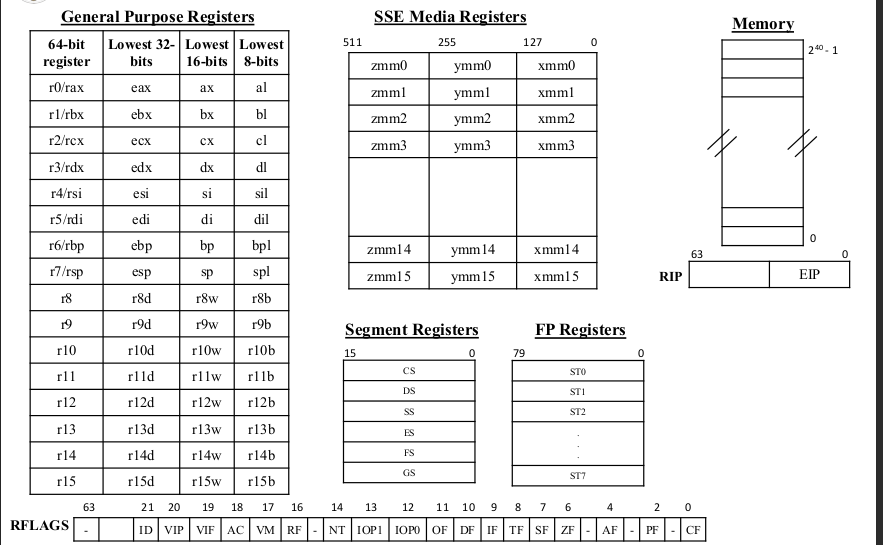
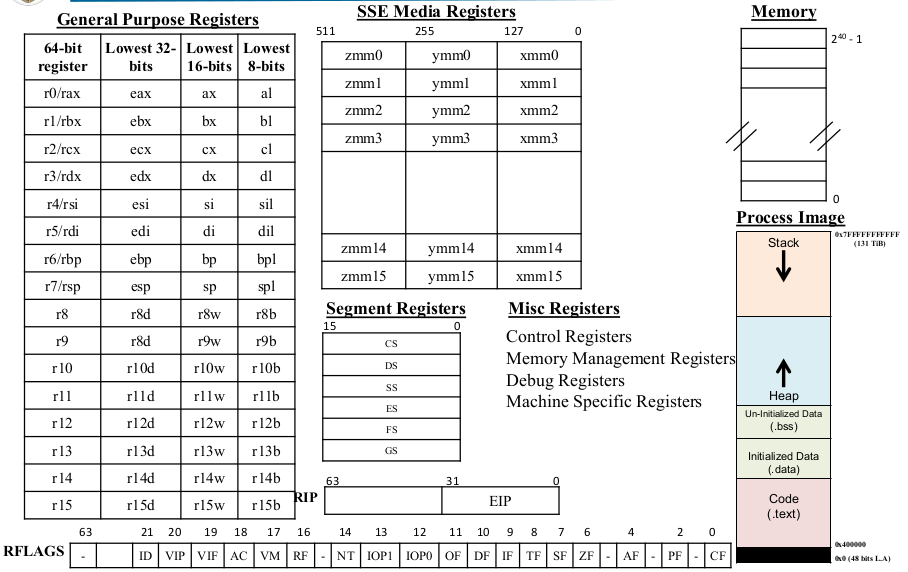
Added datatypes

Changed region(s): [[0.0, 0.0, 1.0, 1.0]]

diff --git a/README.md b/README.md
@@ -1,2 +1,156 @@
-# learnasm
-This is repo contains all assembly language codes written and analyzed while learning  assembly language
+
+# intel x86_64 assembly 
+
+is an unstructured programming language meaning it provides only extreme basic programming control structures.
+
+- Basic Expression.  
+- R/W over memory.
+- Jump Operators.
+
+#### Tells us 
+- How hardware works 
+- Optimize program speed and size.
+  - For example, use **mov al, 5** instead of **mov eax, 5** if only the lower 8 bits of eax are needed.
+- Writing device drivers, OS kernals, Compilers and embedded systems.
+- Reverse Engineering.
+  
+#### In assembly 
+
+- No procedure calls **->** argument processing is done manually.
+- No loops **->** need to jump instead.
+- No variable/functions scope **->** everything is global.
+  
+<br>
+
+### Resources
+---
+
+- **Playlist ::** [Arif Butt](https://www.youtube.com/watch?v=fYHAnSoCgbk&list=PL7B2bn3G_wfCC2HDSXtMFsskasZ5fdLXz&pp=iAQB)
+- **Github ::** [Arif Butt](https://github.com/arifpucit/COAL_VLecs)
+
+
+<br>
+
+### Compiler
+---
+
+- **NASM**
+- nasm -fefl64 filename.nasm
+- ld filename.o -o filename
+- ./filename
+
+<br>  
+
+## Registers
+---
+
+#### General-Purpose Registers (x86)
+
+- EAX (Accumulator): Used for arithmetic and logic operations. It is also the primary register for function return values.
+- EBX (Base): Used as a base pointer for memory access and can be used for other general purposes.
+- ECX (Counter): Often used as a loop counter or for other specialized counting tasks.
+- EDX (Data): Used for arithmetic and logic operations. It is also used to hold the high 32-bits of 64-bit results.
+- ESI (Source Index): Used for source data in string and memory operations.
+- EDI (Destination Index): Used for destination data in string and memory operations.
+- ESP (Stack Pointer): Points to the top of the stack, used for managing the call stack.
+- EBP (Base Pointer): Points to the base of the current stack frame, used for accessing function parameters and local variables.
+  
+#### 64-bit Extension of General-Purpose Registers (x86_64)
+
+- RAX, RBX, RCX, RDX, RSI, RDI: The 64-bit counterparts of their 32-bit equivalents.
+- R8 - R15: Additional general-purpose registers available in x86_64 mode, providing more options for data manipulation.
+  
+#### Segment Registers (x86)
+
+- CS (Code Segment): Holds the code segment address.
+- DS (Data Segment): Holds the data segment address.
+- SS (Stack Segment): Holds the stack segment address.
+- ES (Extra Segment): Holds an extra data segment address.
+- FS, GS: Additional segment registers available for specific purposes in some CPU architectures.
+  
+#### Flags Register (EFLAGS/RFLAGS)
+
+- Register used for status & CPU control information out of 64 bits mostly unsed and reserved for future use.
+- Status Flags
+  - MSB 
+  - Overflow
+  - Logic
+- Control Flags
+  - String Operations
+  - Direction
+- System Flags
+  - Interrupts
+  - Debugging
+- Contains various status and control flags, such as carry(CF), zero(ZF), sign(SF), overflow(OF), etc. The flags register is updated automatically by certain instructions.
+
+#### Instruction Pointer (EIP/RIP):
+
+- Points to the next instruction to be executed in the program.
+
+#### SSE Media Regisers
+
+- (XMM0 to XMM7) These are 128-bit registers, each capable of holding 16 bytes or 4 single-precision floating-point numbers or 2 double-precision floating-point numbers or 16 packed 8-bit integers or 8 packed 16-bit integers.
+- XMM8 to XMM15 (Available in x86_64 mode)Additional 128-bit registers that are available only in x86_64 mode, providing more media registers for SIMD operations.
+
+![Registers](/img/registerSet.png)
+
+<br>
+
+## Mnemonics
+---
+
+#### x86_64 Assembly Instructions
+
+- mov, add, sub, syscall etc.
+
+#### Pseudo Instructions
+
+- DB, DW, RESB, RESW, EQU
+
+#### Assembler Directives
+
+- SECTION, EXTERN, GLOBAL, BITS
+
+<br>
+
+### SECTION .data
+---
+
+The data section is used to define static data variables that the program uses during its execution. It includes constants, initialized variables, and arrays.
+
+```
+SECTION .data
+    myvar db 42   ; Define a byte (8-bit) variable with value 42.
+    myarr dw 10, 20, 30, 40  ; Define a word (16-bit) array with values.
+```
+
+<br>
+
+### SECTION .bss
+---
+
+The BSS (Block Started by Symbol) section is used to define uninitialized data variables. These variables are allocated memory, but their initial values are not specified. The BSS section is typically used for variables that will be initialized at runtime or dynamically during program execution.
+
+```
+SECTION .bss
+    buffer resb 100   ; Reserve 100 bytes of memory for the buffer variable.
+```
+
+<br>
+
+### SECTION .text
+---
+
+The code section is where the actual executable instructions of the program are placed. It contains the assembly code that performs various operations and calculations. This section typically starts with a label, followed by the code instructions.
+
+```
+SECTION .text
+    global _start   ; Entry point of the program
+
+_start:
+
+    mov eax, 1      ; System call number for exit
+    mov rdi, 0      ; Exit code 0
+    syscall         ; Invoke the system call
+```
+

diff --git a/datatypes/README.md b/datatypes/README.md
@@ -1,0 +1,66 @@
+# Datatypes 
+
+- Data Types & Special Tokens in NASM
+  - For Initialized Data
+  - For Un-initialized Data
+- Endianness
+  - Little Endian Machines
+  - Big Endian Machines
+
+<br>
+
+### Initialized Datatypes
+---
+
+- 8-bit DB **(Define Byte)** Represented by a 1 byte.
+- 16-bit DW **(Define Word)** Represented by 2 bytes.
+- 32-bit DD **(Define Double Word)** Represented by 4 bytes.
+- 64-bit DQ **(Define Quad Word)** Represented by 8 bytes.
+- 80-bit DT **(Define Ten Bytes)** Represented by 10 bytes.
+- 128-bit DO **(IEEE 754 Quad)** Represented by 25 bytes.
+  
+<br>
+
+### Uninialized Datatypes
+---
+
+- RESB \<count> Reserve bytes
+- RESW \<count> Reserve words
+- RESD \<count> Reserve double words
+- RESQ \<count> Reserve quad words
+  
+<br>
+
+### Special Tokens
+
+---
+
+- **$** evaluates current line.
+- **$$** evaluates beginning of current section.
+-  **equ** used to define constant.
+-  **times** to repeat data and instructions.
+
+<br>
+
+### Endianness
+---
+
+Endianness is a term used to describe the order in which multi-byte data (such as integers) is stored in computer memory.
+
+#### Big Endian
+
+- In big endian, the most significant byte of a multi-byte data item is stored at the lowest memory address (the first byte).
+- The MSB is stored at smallest position.
+- MIPS, MC6800
+
+#### Little Endian
+
+- In little endian, the least significant byte of a multi-byte data item is stored at the lowest memory address (the first byte).
+- The LSB is stored at the smallest position.
+- x86, ARM
+
+#### Example 
+
+- Let us store a 8 byte number 0x1122334455667788 in memory
+
+![Endianness](../img/endianness.png)
